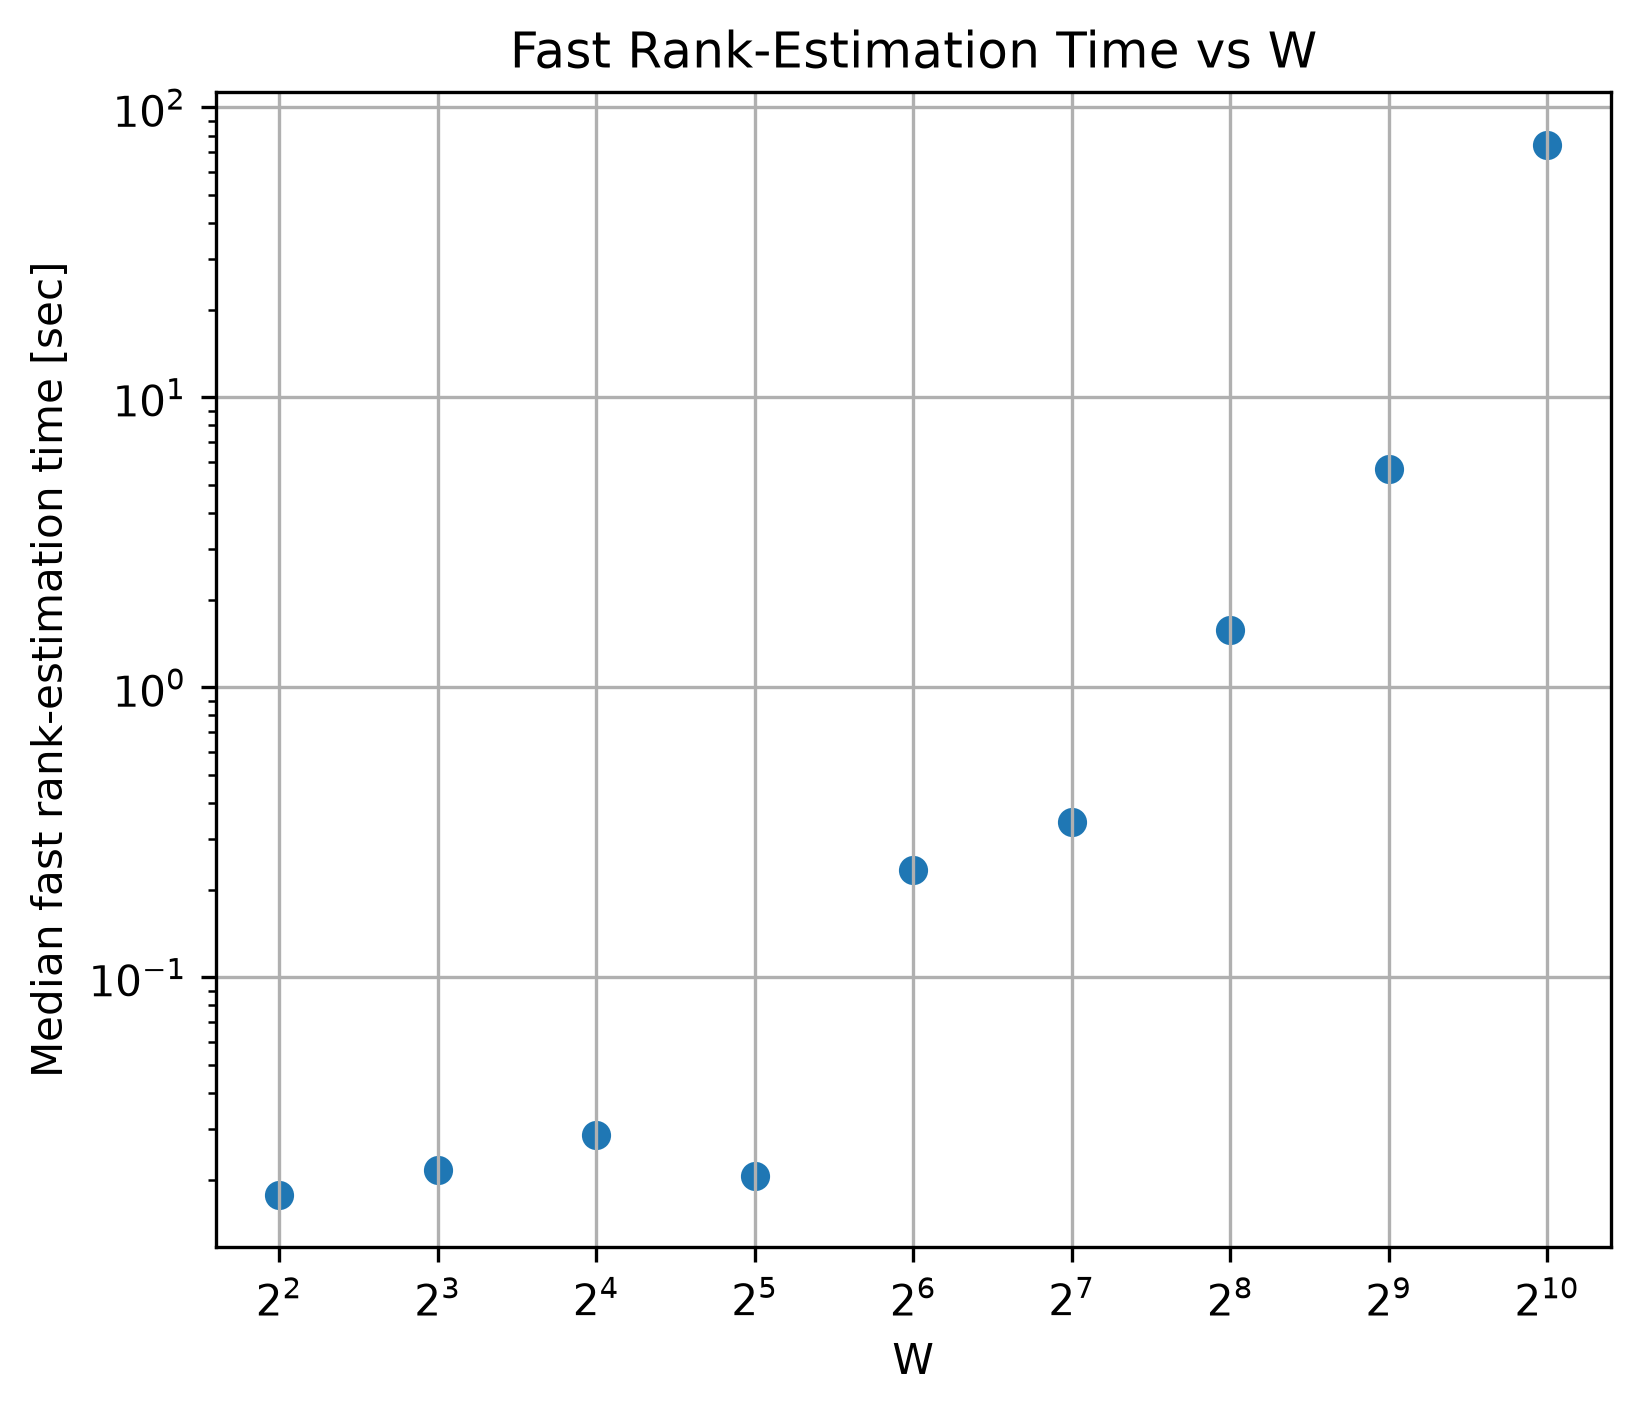
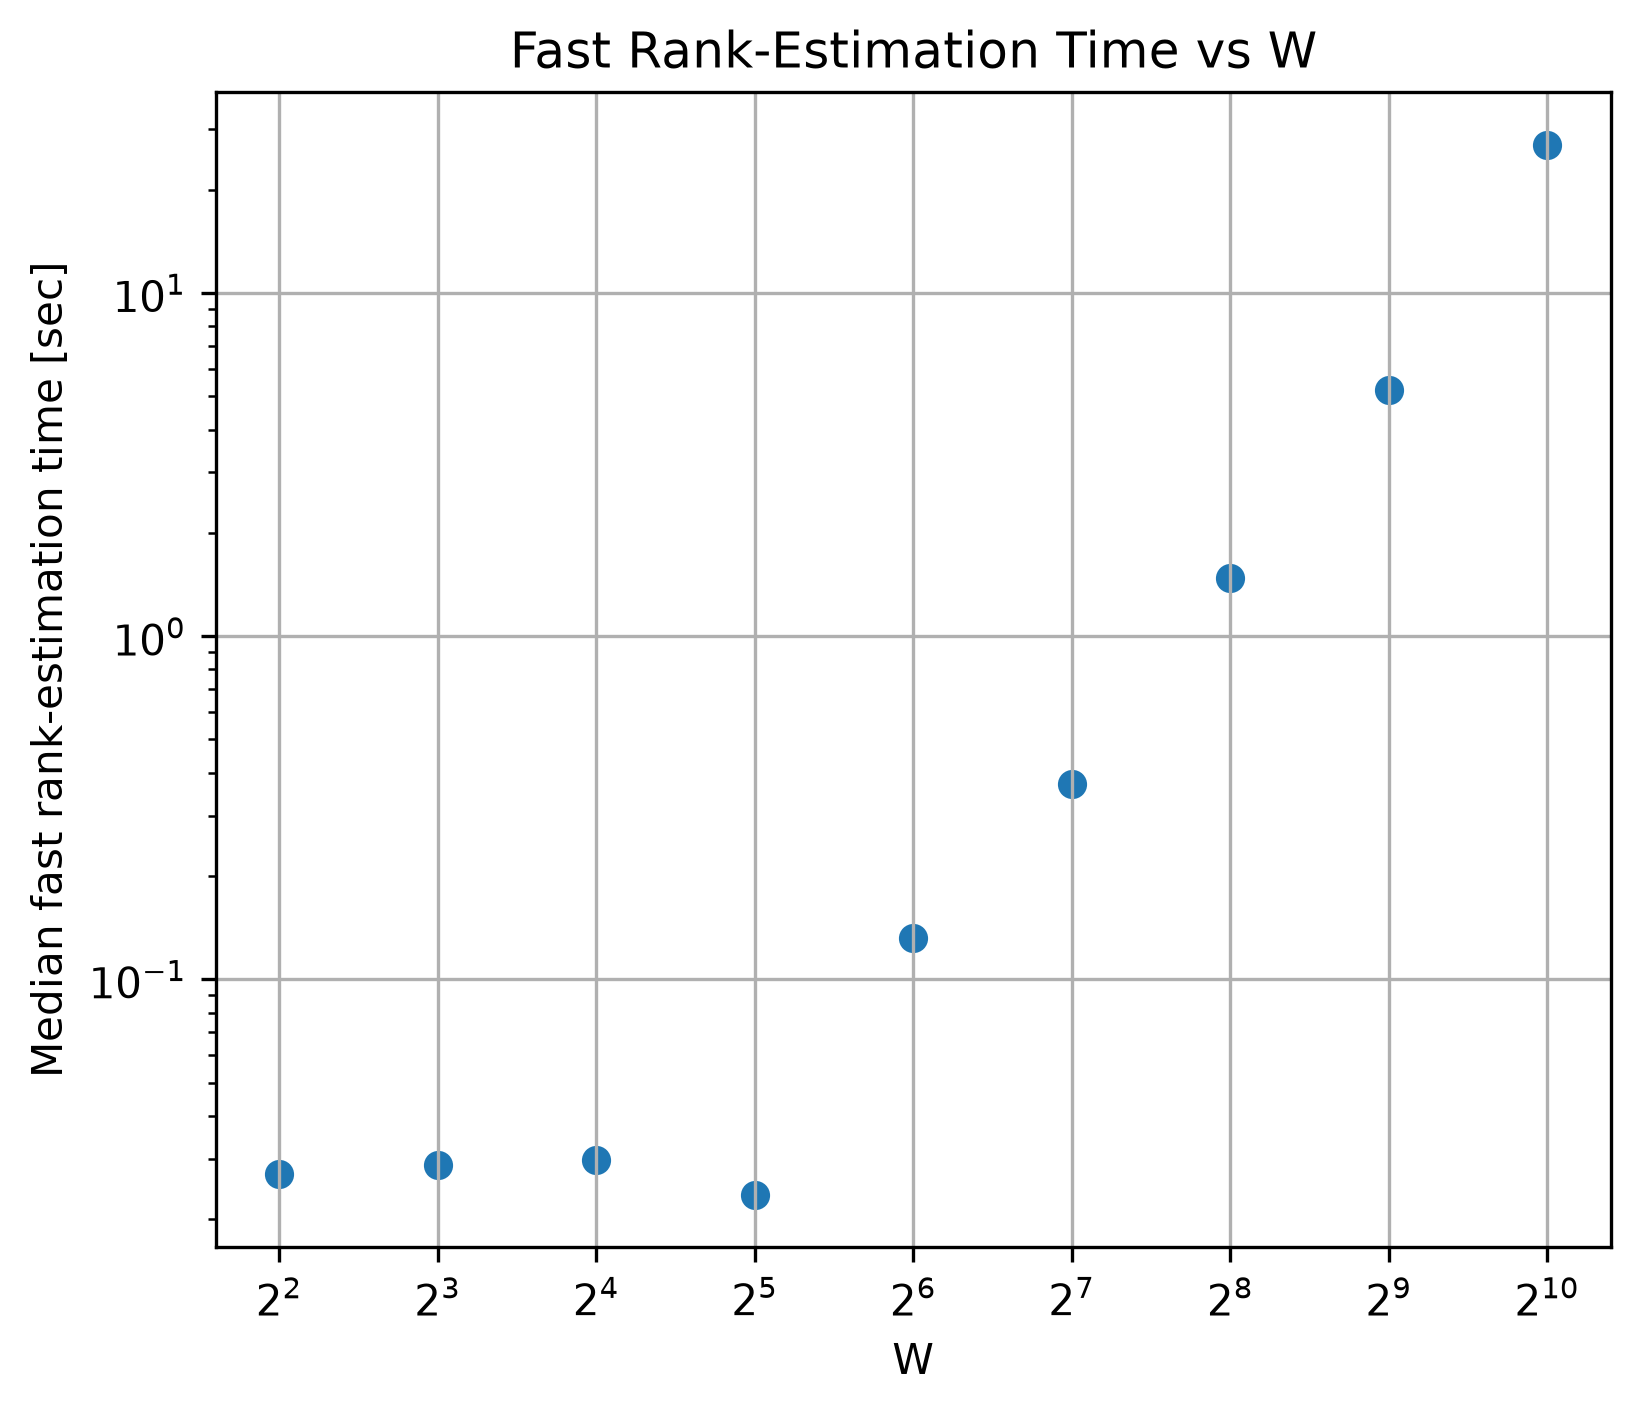
Doing a small fix in section (h) in part II, also writing section (j) of part III, still working on it before uploading results

diff --git a/src/final_project.py b/src/final_project.py
@@ -858,7 +858,7 @@ if run_section_h:
     lam = 1.0
     tau_values = [1e-2, 1e-5, 1e-8]
     tau_R = 0.05
-    num_runs = 3
+    num_runs = 5
 
     alpha_values = [4, 8, 16, 32, 64, 128, 256, 512, 1024]
     kernel_c_lam = lambda r_m, r_n: kernel_c(r_m, r_n, lam)
@@ -902,3 +902,330 @@ if run_section_h:
     )
 
 # Part III - Fast LR Estimation
+
+run_section_j = False
+
+def informed_blocked_randomized_lr(A: np.ndarray, tau: float, tau_R: float, gamma: int, N_b: int, seed=None):
+    """Informed Blocked Randomized LR approximation."""
+    if seed is not None:
+        np.random.seed(seed)
+
+    start_time = time.perf_counter()
+
+    # Step 1+2: Initialization and estimate rank
+    A_res = A.copy()
+    N = A.shape[0]
+    A_norm = np.linalg.norm(A, ord="fro")
+
+    # Estimate rank using Part II
+    R_l = fast_rank_estimation(A_os=A, tau=tau, tau_R=tau_R)
+
+    # Block size
+    B0 = int(np.ceil(R_l / N_b))
+    B0 = max(B0, 1)
+
+    U_blocks = []
+    B_blocks = []
+    block_norms = []
+    residual_errors = []
+
+    max_blocks = int(np.ceil(N / B0))
+
+    for _ in range(max_blocks):
+        current_rank = sum(block.shape[1] for block in U_blocks)
+        block_size = min(B0, N - current_rank)
+
+        if block_size <= 0:
+            break
+
+        # Step 3: Generate Complex Gaussian matrix
+        G = (
+            np.random.randn(N, block_size + gamma)
+            + 1j * np.random.randn(N, block_size + gamma)
+        ) / np.sqrt(2)
+
+        # Step 4: Sample residual
+        M = A_res @ G
+
+        # Step 5: SVD of sampled matrix
+        U, _, _ = np.linalg.svd(M, full_matrices=False)
+        U_block = U[:, :block_size]
+
+        # Step 6: Compute coefficient block
+        B = U_block.conj().T @ A_res
+
+        # Step 7: Add the current block
+        U_blocks.append(U_block)
+        B_blocks.append(B)
+
+        # Step 8: Compute block norm and residual error
+        block_norm = np.linalg.norm(B, ord="fro")
+        block_norms.append(block_norm / A_norm)
+
+        # Step 9: Update residual
+        A_res = A_res - U_block @ B
+        residual_error = np.linalg.norm(A_res, ord="fro") / A_norm
+        residual_errors.append(residual_error)
+
+        # Stopping criterion of step 8
+        if block_norm <= tau * A_norm:
+            break
+    
+    U_hat = np.hstack(U_blocks)
+    B_hat = np.vstack(B_blocks)
+
+    return {
+        "U_hat": U_hat,
+        "B_hat": B_hat,
+        "R_l": R_l,
+        "B0": B0,
+        "rank_lr": U_hat.shape[1],
+        "num_blocks": len(U_blocks),
+        "block_norms": block_norms,
+        "residual_errors": residual_errors,
+        "lr_time": time.perf_counter() - start_time,
+        "final_error": residual_errors[-1]
+    }
+
+def best_svd_rank_error(s: np.ndarray, r: int) -> float:
+    """Relative Frobenius error of the best rank-r SVD approximation."""
+    if r >= len(s):
+        return 0.0
+
+    return float(np.linalg.norm(s[r:]) / np.linalg.norm(s))
+
+def build_A_os_for_alpha(alpha: int, lam: float, kernel):
+    """Build A_os using the same geometry as Section (c)."""
+    W = alpha * lam
+    w = W / 8
+
+    bottom_left, top_right, _, _ = corner_centers(W=W, w=w)
+    r_cs = bottom_left
+    r_co = top_right
+
+    points = build_grid_points(lam=lam, alpha=alpha)
+    source_points = select_square_points(points=points, center=r_cs, w=w)
+    observer_points = select_square_points(points=points, center=r_co, w=w)
+
+    A_os = constructing_A_os(
+        source_points=source_points,
+        observer_points=observer_points,
+        kernel=kernel
+    )
+
+    return W, A_os
+
+if run_section_j:
+    np.random.seed(0) # For reproducibility
+
+    # Parameters for the experiments
+    lam = 1.0
+    tau_values = [1e-2, 1e-5, 1e-8]
+    tau_R = 0.05
+    seed = 0
+
+    alpha_values = [4, 8, 16, 32, 64]  # Values where full SVD is still feasible
+    kernel_c_lam = lambda r_m, r_n: kernel_c(r_m, r_n, lam)
+
+    # Parameter calibration
+    calibration_alpha = 64
+    calibration_tau = 1e-5
+    parameter_grid = [(2, 2), (5, 1), (5, 2), (10, 2), (5, 4)] # (gamma, N_b) pairs
+
+    # Selected parameters for final comparison
+    selected_gamma = 5
+    selected_N_b = 2
+
+    calibration_results = []
+    final_results = []
+
+    for alpha in alpha_values:
+        W, A_os = build_A_os_for_alpha(
+            alpha=alpha,
+            lam=lam,
+            kernel=kernel_c_lam
+        )
+
+        print(f"\nW={W:g}, A_os shape={A_os.shape}")
+
+        # Full SVD once per matrix
+        start = time.perf_counter()
+        s = np.linalg.svd(A_os, compute_uv=False)
+        svd_time = time.perf_counter() - start
+
+        svd_ranks = {
+            tau: svd_numerical_rank(s=s, tau=tau)
+            for tau in tau_values
+        }
+
+        print(f"SVD time={svd_time:.4f} sec, SVD ranks={svd_ranks}")
+
+        # Calibration only at W=64 and tau=1e-5
+        if alpha == calibration_alpha:
+            print("\nParameter calibration at W=64, tau=1e-5")
+
+            for gamma, N_b in parameter_grid:
+                lr_result = informed_blocked_randomized_lr(
+                    A=A_os,
+                    tau=calibration_tau,
+                    tau_R=tau_R,
+                    gamma=gamma,
+                    N_b=N_b,
+                    seed=seed
+                )
+
+                r = lr_result["rank_lr"]
+                E_lr = lr_result["final_error"]
+                E_svd = best_svd_rank_error(s=s, r=r)
+                rel_diff = (E_lr - E_svd) / E_svd if E_svd > 0 else np.nan
+
+                row = {
+                    "W": W,
+                    "tau": calibration_tau,
+                    "gamma": gamma,
+                    "N_b": N_b,
+                    "svd_rank": svd_ranks[calibration_tau],
+                    "R_l": lr_result["R_l"],
+                    "B0": lr_result["B0"],
+                    "rank_lr": r,
+                    "num_blocks": lr_result["num_blocks"],
+                    "svd_time": svd_time,
+                    "lr_time": lr_result["lr_time"],
+                    "E_lr": E_lr,
+                    "E_svd": E_svd,
+                    "relative_difference": rel_diff
+                }
+
+                calibration_results.append(row)
+
+                print(
+                    f"gamma={gamma}, N_b={N_b}, "
+                    f"R_l={row['R_l']}, B0={row['B0']}, "
+                    f"rank={r}, blocks={row['num_blocks']}, "
+                    f"LR time={row['lr_time']:.4f}, "
+                    f"E_LR={E_lr:.3e}, E_SVD={E_svd:.3e}, "
+                    f"rel_diff={rel_diff:.3e}"
+                )
+
+        # Final comparison using selected gamma and N_b
+        for tau in tau_values:
+            lr_result = informed_blocked_randomized_lr(
+                A=A_os,
+                tau=tau,
+                tau_R=tau_R,
+                gamma=selected_gamma,
+                N_b=selected_N_b,
+                seed=seed
+            )
+
+            r = lr_result["rank_lr"]
+            E_lr = lr_result["final_error"]
+            E_svd = best_svd_rank_error(s=s, r=r)
+            rel_diff = (E_lr - E_svd) / E_svd if E_svd > 0 else np.nan
+
+            row = {
+                "W": W,
+                "tau": tau,
+                "gamma": selected_gamma,
+                "N_b": selected_N_b,
+                "svd_rank": svd_ranks[tau],
+                "R_l": lr_result["R_l"],
+                "B0": lr_result["B0"],
+                "rank_lr": r,
+                "num_blocks": lr_result["num_blocks"],
+                "svd_time": svd_time,
+                "lr_time": lr_result["lr_time"],
+                "E_lr": E_lr,
+                "E_svd": E_svd,
+                "relative_difference": rel_diff
+            }
+
+            final_results.append(row)
+
+            print(
+                f"tau={tau:g}, "
+                f"SVD rank={row['svd_rank']}, "
+                f"R_l={row['R_l']}, B0={row['B0']}, "
+                f"rank={r}, blocks={row['num_blocks']}, "
+                f"LR time={row['lr_time']:.4f}, "
+                f"E_LR={E_lr:.3e}, E_SVD={E_svd:.3e}, "
+                f"rel_diff={rel_diff:.3e}"
+            )
+
+    # Save results
+    header = [
+        "W", "tau", "gamma", "N_b", "svd_rank", "R_l", "B0",
+        "rank_lr", "num_blocks", "svd_time", "lr_time",
+        "E_lr", "E_svd", "relative_difference"
+    ]
+
+    files_to_save = [
+        ("Part III/Section j/parameter_calibration_W64.csv", calibration_results),
+        ("Part III/Section j/final_comparison.csv", final_results)
+    ]
+
+    for filename, rows in files_to_save:
+        out_path = Path("results") / filename
+        out_path.parent.mkdir(parents=True, exist_ok=True)
+
+        with open(out_path, "w") as f:
+            f.write(",".join(header) + "\n")
+
+            for row in rows:
+                f.write(",".join(str(row[col]) for col in header) + "\n")
+
+        print(f"Saved results to {out_path}")
+
+    # Plot LR time vs SVD time
+    fig, ax = plt.subplots(figsize=(6, 5))
+
+    W_unique = sorted(set(row["W"] for row in final_results))
+    svd_times = []
+
+    for W in W_unique:
+        for row in final_results:
+            if row["W"] == W:
+                svd_times.append(row["svd_time"])
+                break
+
+    ax.scatter(W_unique, svd_times, marker="o", label="Full SVD")
+
+    for tau in tau_values:
+        W_plot = [row["W"] for row in final_results if row["tau"] == tau]
+        T_plot = [row["lr_time"] for row in final_results if row["tau"] == tau]
+        ax.scatter(W_plot, T_plot, marker="x", label=f"Fast LR, tau={tau:g}")
+
+    ax.set_xlabel("W")
+    ax.set_ylabel("Computation time [sec]")
+    ax.set_title("Fast LR Time vs Full SVD Time")
+    ax.set_xscale("log", base=2)
+    ax.set_yscale("log")
+    ax.grid(True)
+    ax.legend()
+
+    out_path = Path("images") / "Part III/Section j/time_comparison.png"
+    out_path.parent.mkdir(parents=True, exist_ok=True)
+    fig.savefig(out_path, dpi=300, bbox_inches="tight")
+    plt.close(fig)
+    print(f"Saved figure to {out_path}")
+
+    # Plot relative difference
+    fig, ax = plt.subplots(figsize=(6, 5))
+
+    for tau in tau_values:
+        W_plot = [row["W"] for row in final_results if row["tau"] == tau]
+        diff_plot = [row["relative_difference"] for row in final_results if row["tau"] == tau]
+        ax.scatter(W_plot, diff_plot, label=f"tau={tau:g}")
+
+    ax.set_xlabel("W")
+    ax.set_ylabel(r"$(E_{LR}-E_{SVD,r})/E_{SVD,r}$")
+    ax.set_title("Relative Difference Between Fast LR and Best SVD")
+    ax.set_xscale("log", base=2)
+    ax.grid(True)
+    ax.legend()
+
+    out_path = Path("images") / "Part III/Section j/relative_difference.png"
+    out_path.parent.mkdir(parents=True, exist_ok=True)
+    fig.savefig(out_path, dpi=300, bbox_inches="tight")
+    plt.close(fig)
+    print(f"Saved figure to {out_path}")